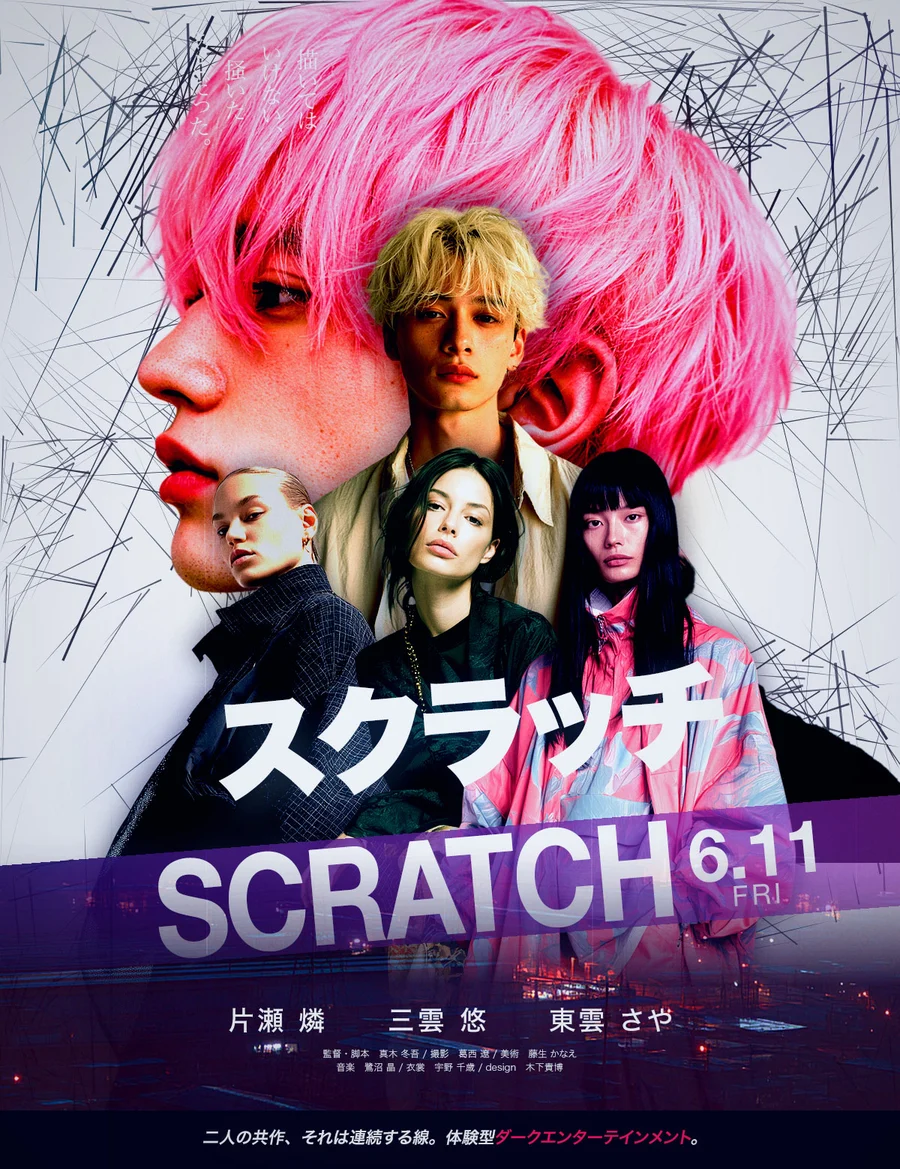
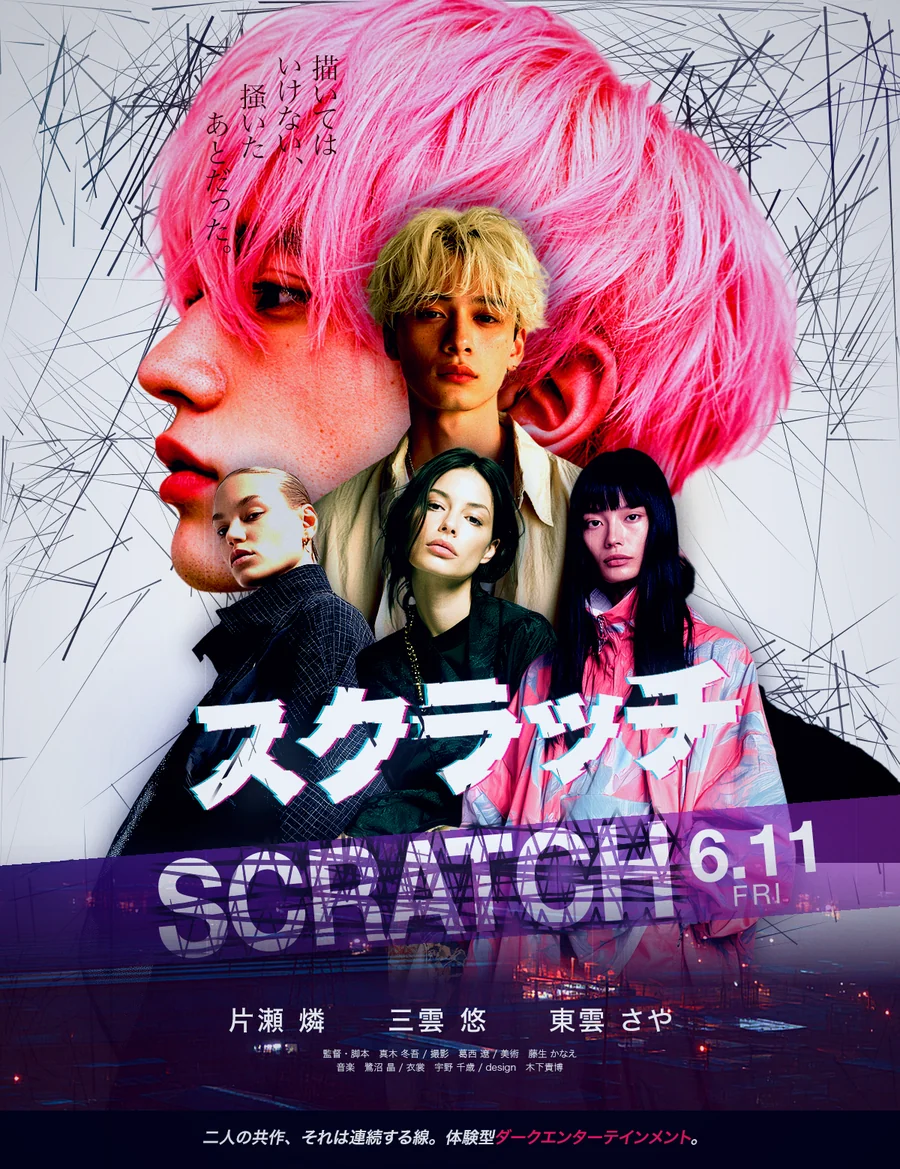
スクラッチ：題字を引っ掻いた完成版に差し替え（3ページ・?v=20260925b）

Changed region(s): [[0.1556, 0.5543, 0.84, 0.8315], [0.2178, 0.0308, 0.3733, 0.2156]]

diff --git a/art-direction.html b/art-direction.html
@@ -330,7 +330,7 @@
       <figure><img src="assets/_orphans/9C96D522-9757-448B-9BEA-A83E04468F14.webp" alt="木下スタジオ：フィルム写真 — ライトリーク・光とフレア" loading="lazy"><figcaption>Photo</figcaption></figure>
       <figure><img src="assets/img/img-poster-amberhour.webp?v=20260925a" alt="木下スタジオ制作：映画ポスター「アンバーアワー」" loading="lazy"><figcaption>Poster</figcaption></figure>
       <figure><img src="assets/img/img-graphic-natsunohi.webp" alt="木下スタジオ：コンセプトグラフィック「夏の日残像」" loading="lazy"><figcaption>Graphic</figcaption></figure>
-      <figure><img src="assets/img/img-poster-scratch.webp" alt="木下スタジオ制作：映画ポスター「スクラッチ」" loading="lazy"><figcaption>Poster</figcaption></figure>
+      <figure><img src="assets/img/img-poster-scratch.webp?v=20260925b" alt="木下スタジオ制作：映画ポスター「スクラッチ」" loading="lazy"><figcaption>Poster</figcaption></figure>
     </div>
     <div class="ad-strip-nav" aria-hidden="true">
       <span class="ad-strip-dots" id="ad-strip-dots"></span>

diff --git a/flyer-poster-work.html b/flyer-poster-work.html
@@ -426,7 +426,7 @@
       <div class="work-cat-label">Self-Initiated / Film Key Visual</div>
     </div>
     <div class="work-visual">
-      <img src="assets/img/img-poster-scratch.webp"
+      <img src="assets/img/img-poster-scratch.webp?v=20260925b"
            alt="木下スタジオ（木下貴博 / 滋賀）自主制作：映画ポスター「スクラッチ」— 引っ掻いた線とピンクで組んだ B1 想定のキービジュアル"
            class="work-img" width="900" height="1168" loading="lazy">
       <p class="work-desc">5人を大きさの4段に分けて奥行きに置き、効かせる色をピンクの一系統だけに絞った。</p>

diff --git a/taka/index.html b/taka/index.html
@@ -492,7 +492,7 @@ main.list{max-width:1440px;margin:0 auto;padding-block:120px 160px}
     <span class="cap"><b>Kfn</b><span class="mono">LETTERING</span><span class="mono r">DESIGN</span></span>
   </a>
   <a href="/flyer-poster-work.html" class="w" data-k="poster">
-    <img src="img/scratch.webp" alt="スクラッチ" >
+    <img src="img/scratch.webp?v=20260925b" alt="スクラッチ" >
     <span class="cap"><b>スクラッチ</b><span class="mono">CINEMA POSTER</span><span class="mono r">AD / DESIGN</span></span>
   </a>
   <a href="/flyer-poster-work.html" class="w" data-k="poster">
